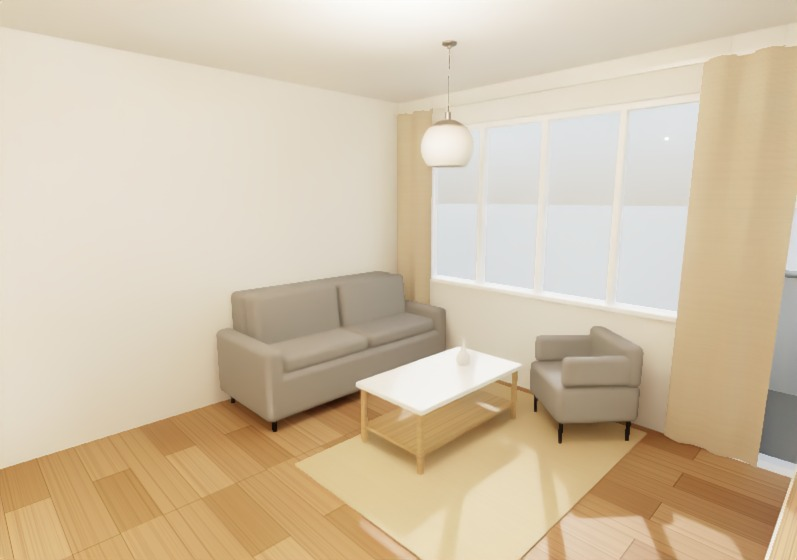
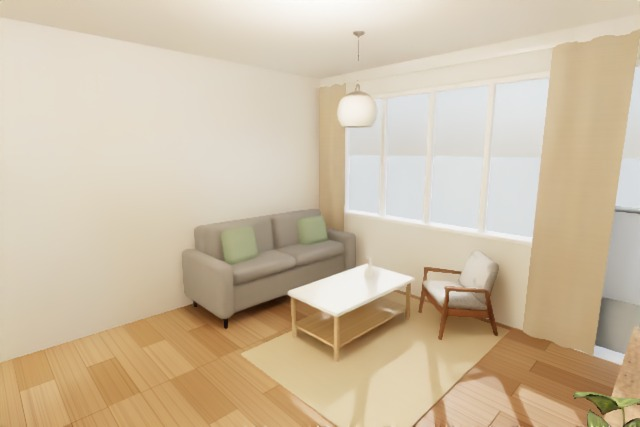
README pictures with the new sofa, bed and wardrobe
New demo GIF (now with a frame of the bedroom: upholstered headboard,
wardrobe with long handles), desktop, phone and editor screenshots, and a
new photoreal render of the living room. Alt text for the phone and the
render.

diff --git a/README.md b/README.md
@@ -9,7 +9,7 @@
 
 **[Live demo](https://aco993.github.io/flatfit/)** · English · Deutsch · Srpski · Bosanski · Hrvatski · 🇷🇸 🇧🇦 🇭🇷 🇩🇪 🇦🇹
 
-![FlatFit: a wish in one sentence furnishes the flat from the Serbian catalogue within the budget; a follow-up changes only the coffee table and the rug; the living room in 3D; a bedroom made L-shaped in the floor-plan editor](docs/demo.gif)
+![FlatFit: a wish in one sentence furnishes the flat from the Serbian catalogue within the budget; a follow-up changes only the coffee table and the rug; the living room in 3D; the bedroom with an upholstered bed and a wardrobe with long handles; the bedroom made L-shaped in the floor-plan editor](docs/demo.gif)
 
 <sub>Recorded on the built site with an Intel laptop GPU. The AI stylist's two answers come from a stand-in here; with your own Gemini or Claude key the model answers the same way, with settings only, and FlatFit picks the products.</sub>
 
@@ -59,7 +59,7 @@ They are better at what they do: huge model libraries, realistic renders, scanni
 
 | Desktop | Phone | Floor-plan editor | Photoreal render |
 |---|---|---|---|
-| ![The living room in 3D with a sofa bed, coffee table and rug, next to the shopping list](docs/screenshot-desktop.jpg) | ![](docs/screenshot-phone.jpg) | ![The floor-plan editor with the bedroom extended into an L shape](docs/screenshot-editor.jpg) | ![](docs/screenshot-render.jpg) |
+| ![The living room in 3D with a sofa bed, coffee table and rug, next to the shopping list](docs/screenshot-desktop.jpg) | ![The living room on a phone, in Serbian, with the sofa and its cushions on slim legs](docs/screenshot-phone.jpg) | ![The floor-plan editor with the bedroom extended into an L shape](docs/screenshot-editor.jpg) | ![The living room path-traced on the GPU and denoised](docs/screenshot-render.jpg) |
 
 | Price history | Shopping list by store | Payback for landlords | Walls and floor |
 |---|---|---|---|
